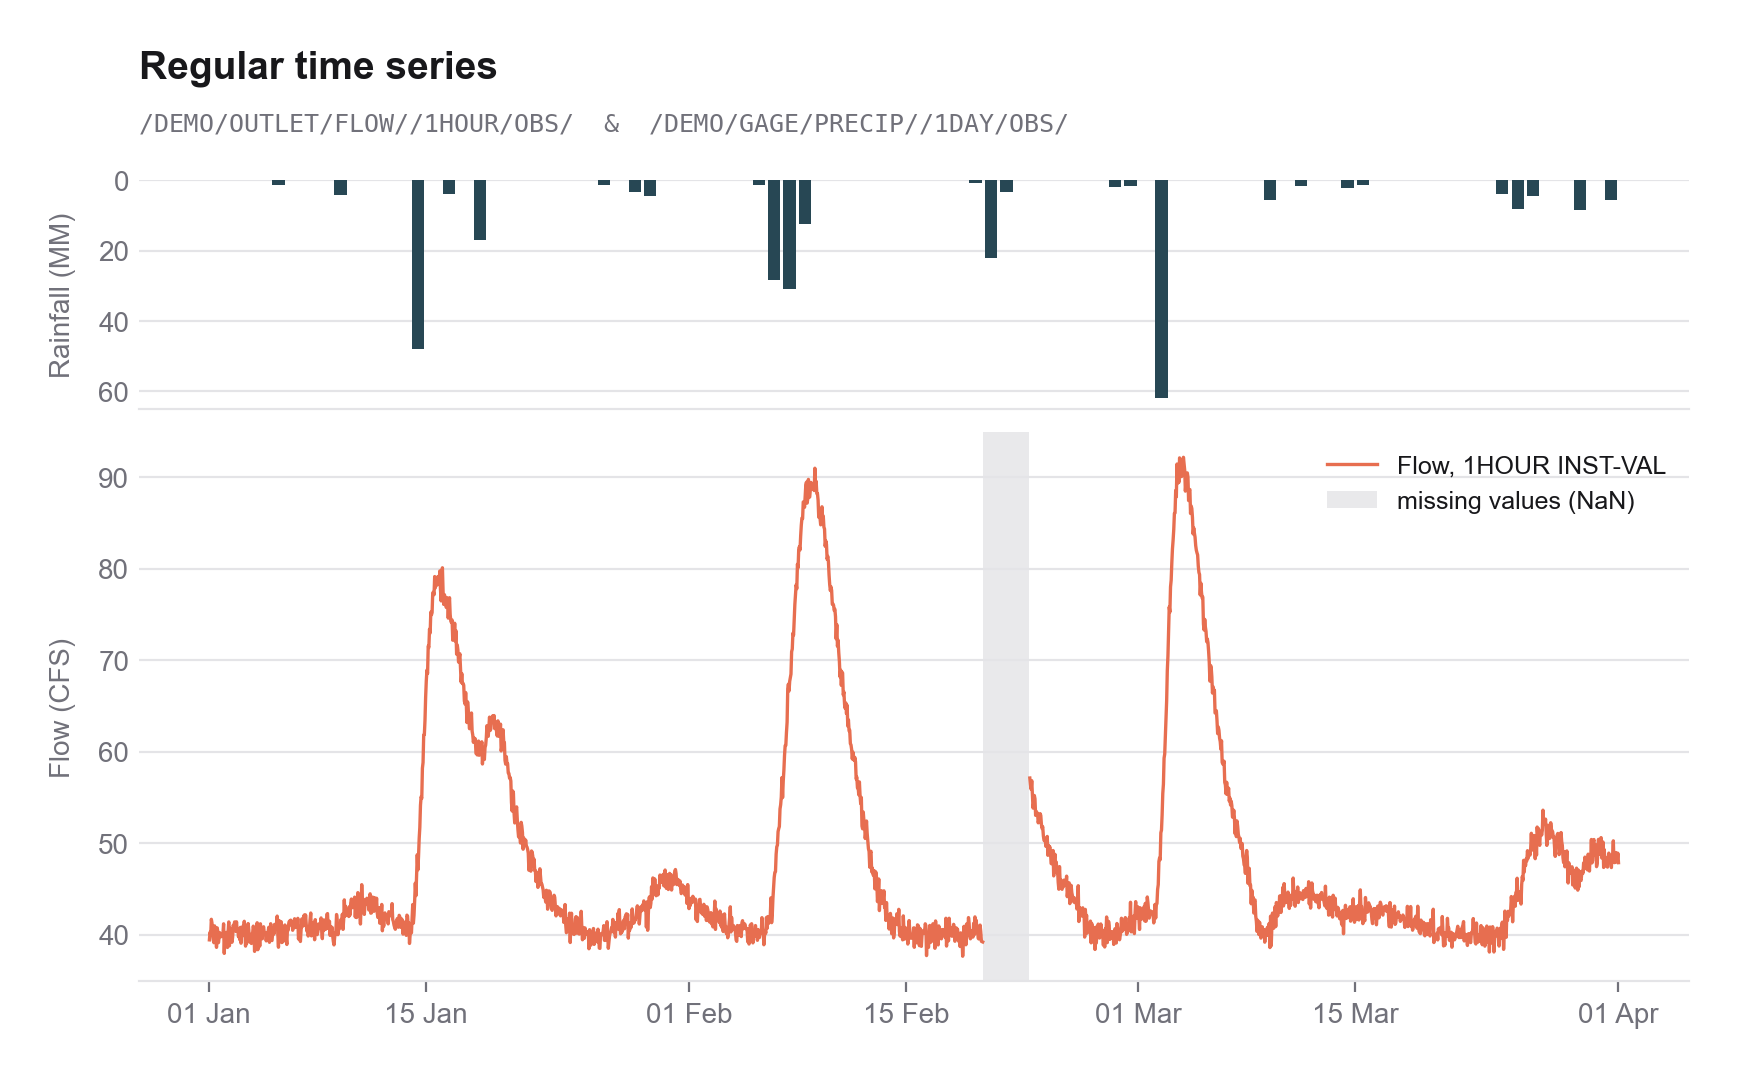
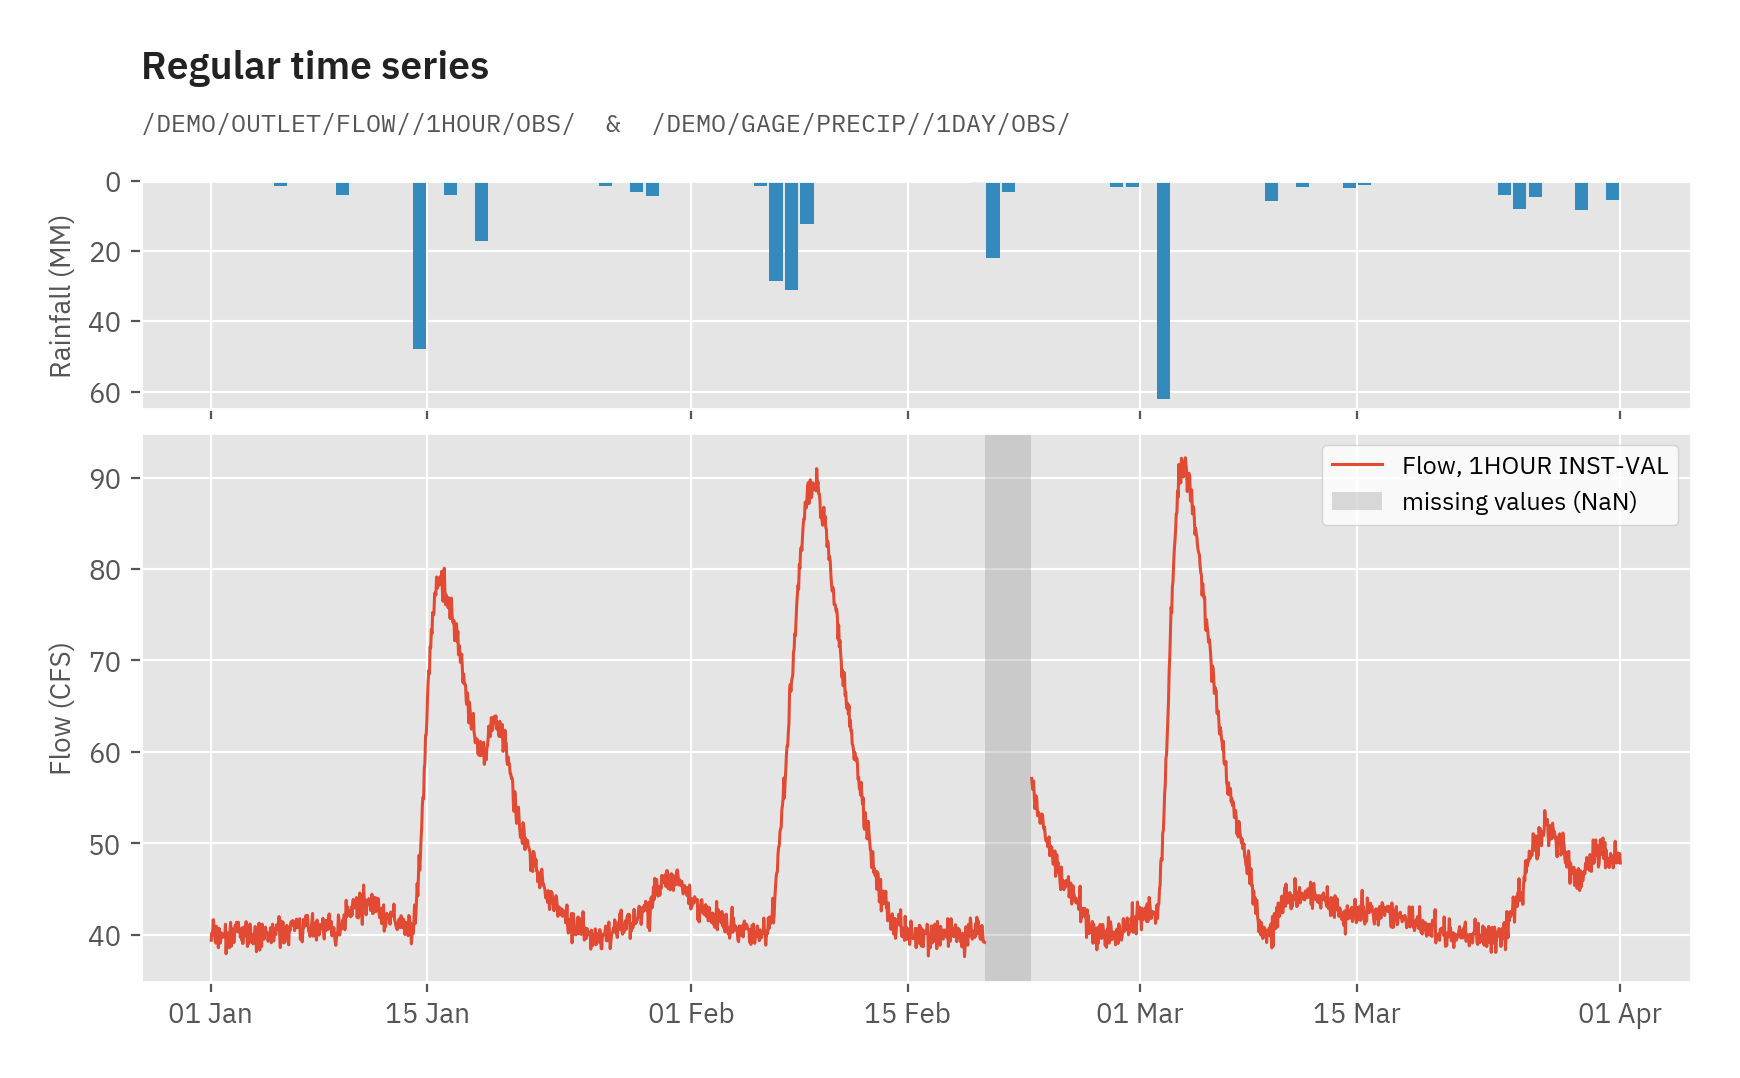
README figures in ggplot style with IBM Plex fonts, highlight the quick reference
- ggplot style, IBM Plex Sans & Mono (registered from the installed font files)
- titles: record type, with the dss pathname below in a smaller font
- quick reference block marked py for syntax highlighting (python blocks run in tests)

diff --git a/examples/make_readme_figures.py b/examples/make_readme_figures.py
@@ -17,6 +17,7 @@ import tempfile
 
 import matplotlib
 matplotlib.use("Agg")
+import matplotlib.font_manager as font_manager
 import matplotlib.pyplot as plt
 import matplotlib.dates as mdates
 import numpy as np
@@ -25,37 +26,26 @@ import pandas as pd
 import pyheclib as phl
 
 
-# a quiet light style, like the dss browser: white, no box, faint grid lines
-INK, MUTED, FAINT = "#18181b", "#71717a", "#e4e4e7"
-COLORS = ["#e76e50", "#2a9d90", "#274754", "#e8c468"]   # the browser chart colors
+# IBM Plex like the dss browser (https://github.com/IBM/plex), matplotlib caches its
+# font list, so register plex files installed after that
+for font_file in font_manager.findSystemFonts():
+	if os.path.basename(font_file).startswith("IBMPlex"):
+		font_manager.fontManager.addfont(font_file)
 
+# ggplot style with the IBM Plex fonts
+INK, MUTED = "#222222", "#555555"
+COLORS = ["#E24A33", "#348ABD", "#988ED5", "#777777", "#FBC15E", "#8EBA42"]   # the ggplot colors
+
+plt.style.use("ggplot")
 plt.rcParams.update({
 	"font.family": "sans-serif",
-	"font.sans-serif": ["Arial", "Liberation Sans", "DejaVu Sans"],   # fonts with a real bold
+	"font.sans-serif": ["IBM Plex Sans", "Arial", "DejaVu Sans"],
 	"font.monospace": ["IBM Plex Mono", "JetBrains Mono", "Menlo", "Consolas", "DejaVu Sans Mono"],
 	"font.size": 10,
-	"text.color": INK,
-	"axes.prop_cycle": plt.cycler(color=COLORS),
-	"axes.edgecolor": FAINT,
-	"axes.labelcolor": MUTED,
 	"axes.labelsize": 10,
-	"axes.labelpad": 8,
-	"axes.spines.top": False,
-	"axes.spines.right": False,
-	"axes.spines.left": False,
-	"axes.grid": True,
-	"axes.grid.axis": "y",
-	"axes.axisbelow": True,
-	"grid.color": FAINT,
-	"grid.linewidth": 0.8,
-	"xtick.color": MUTED,
-	"ytick.color": MUTED,
-	"xtick.major.size": 4,
-	"xtick.major.width": 0.8,
-	"ytick.major.size": 0,
-	"legend.frameon": False,
 	"legend.fontsize": 9,
-	"figure.facecolor": "white",
+	"legend.frameon": True,
+	"legend.facecolor": "white",
 	"figure.dpi": 100,
 	"savefig.dpi": 200,
 	"savefig.bbox": "tight",
@@ -136,7 +126,7 @@ def example_records():
 def title(ax, name, path):
 	''' the record type, with the dss pathname below it in a smaller mono font '''
 	ax.annotate(name, (0, 1), xycoords="axes fraction", xytext=(0, 34), textcoords="offset points",
-		fontsize=14, fontweight="bold", color=INK, va="bottom")
+		fontsize=14, fontweight="semibold", color=INK, va="bottom")
 	ax.annotate(path, (0, 1), xycoords="axes fraction", xytext=(0, 16), textcoords="offset points",
 		fontsize=9, family="monospace", color=MUTED, va="bottom")
 
@@ -146,16 +136,15 @@ def plot_regular_ts(flow, precip, out_file):
 		gridspec_kw={"height_ratios": [1, 2.4], "hspace": 0.06})
 
 	rain = precip.to_series()
-	ax_rain.bar(rain.index - pd.Timedelta(hours=12), rain.values, width=0.8, color=COLORS[2])
+	ax_rain.bar(rain.index - pd.Timedelta(hours=12), rain.values, width=0.85, color=COLORS[1])
 	ax_rain.invert_yaxis()
-	ax_rain.tick_params(axis="x", length=0)
 	ax_rain.set_ylabel(f"Rainfall ({precip.unit})")
 	title(ax_rain, "Regular time series", f"{flow.path.without_date()}  &  {precip.path.without_date()}")
 
 	q = flow.to_series()
-	ax_flow.plot(q.index, q.values, color=COLORS[0], lw=1.2, label=f"Flow, {flow.interval} {flow.type}")
+	ax_flow.plot(q.index, q.values, color=COLORS[0], lw=1.1, label=f"Flow, {flow.interval} {flow.type}")
 	gap = q[q.isna()]
-	ax_flow.axvspan(gap.index[0], gap.index[-1], color=FAINT, alpha=0.8, lw=0, label="missing values (NaN)")
+	ax_flow.axvspan(gap.index[0], gap.index[-1], color="0.6", alpha=0.35, lw=0, label="missing values (NaN)")
 	ax_flow.set_ylabel(f"Flow ({flow.unit})")
 	ax_flow.legend(loc="upper right")
 	ax_flow.xaxis.set_major_formatter(mdates.DateFormatter("%d %b"))
@@ -168,8 +157,8 @@ def plot_irregular_ts(stage, out_file):
 	fig, ax = plt.subplots(figsize=(10, 3.6))
 
 	s = stage.to_series()
-	ax.plot(s.index, s.values, color=COLORS[1], lw=1, alpha=0.45)
-	ax.scatter(s.index, s.values, s=30, color=COLORS[1], edgecolor="white", linewidth=1, zorder=3,
+	ax.plot(s.index, s.values, color=COLORS[2], lw=1, alpha=0.6)
+	ax.scatter(s.index, s.values, s=30, color=COLORS[2], edgecolor="white", linewidth=1, zorder=3,
 		label=f"{s.size} readings at irregular times")
 	ax.set_ylabel(f"Stage ({stage.unit})")
 	title(ax, "Irregular time series", stage.path.without_date())
@@ -187,7 +176,6 @@ def plot_paired(rating, out_file):
 	for label in df.columns:
 		ax.plot(df[label].values, df.index.values, lw=2, label=label)
 
-	ax.grid(True, axis="both")
 	ax.set_xlabel(f"Flow ({rating.y_unit})")
 	ax.set_ylabel(f"Stage ({rating.x_unit})")
 	title(ax, "Paired data", rating.path)
@@ -201,24 +189,21 @@ def plot_paired(rating, out_file):
 def plot_gridded(grid, out_file):
 	fig, ax = plt.subplots(figsize=(8.4, 5))
 	ax.grid(False)
-	ax.spines[:].set_visible(False)
-	ax.tick_params(axis="both", length=0)
 
 	xmin, xmax, ymin, ymax = (v / 1000 for v in grid.extent)
 	cmap = plt.get_cmap("viridis").copy()
-	cmap.set_bad("#f4f4f5")
+	cmap.set_bad("0.85")
 	image = ax.imshow(grid.data, extent=(xmin, xmax, ymin, ymax), cmap=cmap, origin="upper")
 
 	bar = fig.colorbar(image, ax=ax, fraction=0.035, pad=0.02)
 	bar.outline.set_visible(False)
-	bar.ax.tick_params(length=0)
 	bar.set_label(f"{grid.type} ({grid.unit})")
 	ax.set_xlabel(f"x ({grid.srs_name}, km)")
 	ax.set_ylabel(f"y ({grid.srs_name}, km)")
 	title(ax, "Gridded data", grid.path)
 	ax.text(0.015, 0.975, f"{grid.shape[0]} x {grid.shape[1]} cells of {grid.cell_size / 1000:g} km\n"
-		"light grey = nodata (NaN)", transform=ax.transAxes, fontsize=8, va="top", color=MUTED,
-		bbox={"facecolor": "white", "edgecolor": FAINT, "boxstyle": "round,pad=0.5"})
+		"grey = nodata (NaN)", transform=ax.transAxes, fontsize=8, va="top", color=MUTED,
+		bbox={"facecolor": "white", "edgecolor": "0.7", "boxstyle": "round,pad=0.5"})
 
 	fig.savefig(out_file)
 	plt.close(fig)

diff --git a/tests/test_readme.py b/tests/test_readme.py
@@ -10,6 +10,7 @@ README = open(os.path.join(ROOT, "readme.md")).read()
 
 
 def test_readme_examples_run(tmp_path, monkeypatch):
+	# ```python blocks run, the ```py quick reference only lists signatures
 	blocks = re.findall(r"```python\n(.*?)```", README, re.S)
 	assert len(blocks) >= 6
 

diff --git a/readme.md b/readme.md
@@ -182,7 +182,7 @@ dss_file.close()
 
 A compact summary of the API, useful for scripts and AI coding agents.
 
-```text
+```py
 import pyheclib as phl
 
 phl.open(filename) -> DssFile                 # creates the file if missing; context manager
